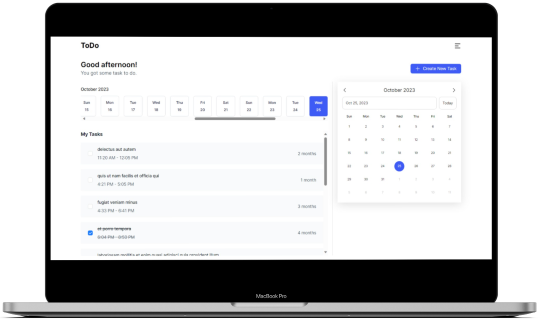
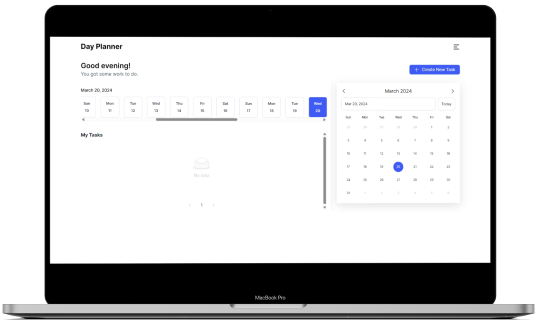
added ajotsome x dinnin

diff --git a/src/app/components/Projects/projects.data.ts b/src/app/components/Projects/projects.data.ts
@@ -18,8 +18,30 @@ export const PROJECTS: ProjectItemProps[] = [
 		description: "The Billsclan storefront is a personalized e-commerce platform, which allows registered users own an online storefront",
 		link: "/billsclan",
 		type: "web",
-		tools: ["React", "Bootstrap 5", "JavaScript", "Redux", "PostgreSQL", ".NET", "C#", "Flutterwave", "Jest"],
+		tools: ["React", "Bootstrap 5", "JavaScript", "Jest", "Redux", "PostgreSQL", "ASP.NET", "C#", "Flutterwave"],
 		liveUrl: "https://billsclan.shop/figocard",
+	},
+	{
+		desktop: "/images/projects/dinnin_desktop.png",
+		mobile: "/images/projects/dinnin_mobile.png",
+		name: "Dinnin",
+		description: "A restaurant management project comprising admin dashboard and customer-facing web app",
+		link: "/dinnin",
+		type: "web",
+		tools: ["React", "TypeScript", "Redux Toolkit", "PusherJs", "Jest", "MySQL", "ASP.NET", "RabbitMQ", "Docker"],
+		liveUrl: "https://dinnin-dashboard.vercel.app",
+		codeUrl: "https://github.com/Okoli-Ryan/Dinnin-dashboard",
+	},
+	{
+		desktop: "/images/projects/todo_desktop.png",
+		mobile: "/images/projects/todo_mobile.png",
+		name: "Day Planner App",
+		description: "Day Planner with calender and time tracker",
+		link: "/day-planner",
+		type: "web",
+		tools: ["React", "HTML", "CSS", "Ant Design", "Tailwind CSS"],
+		codeUrl: "https://github.com/Okoli-Ryan/Day-planner",
+		liveUrl: "https://day-planner-ten.vercel.app/",
 	},
 	{
 		desktop: "/images/projects/panto_desktop.png",
@@ -42,17 +64,6 @@ export const PROJECTS: ProjectItemProps[] = [
 		tools: ["React", "HTML", "CSS", "Tailwind CSS"],
 		codeUrl: "https://github.com/Okoli-Ryan/Music-Player",
 		liveUrl: "https://raadio.vercel.app",
-	},
-	{
-		desktop: "/images/projects/todo_desktop.png",
-		mobile: "/images/projects/todo_mobile.png",
-		name: "Modern Todo App",
-		description: "Todo Application with calender and time tracker",
-		link: "/todo",
-		type: "web",
-		tools: ["React", "HTML", "CSS", "Ant Design", "Tailwind CSS"],
-		codeUrl: "https://github.com/Okoli-Ryan/modern-todo-app",
-		liveUrl: "https://modern-todo-app-ten.vercel.app/",
 	},
 	{
 		desktop: "/images/projects/getlinked_desktop.png",
@@ -99,16 +110,6 @@ export const PROJECTS: ProjectItemProps[] = [
 		liveUrl: "https://space-tourism-omega-three.vercel.app",
 	},
 	{
-		mobile: "/images/projects/wazobia_app.png",
-		name: "Wazobia App",
-		description: "A multilingual dictionary showcasing different topics about Nigeria in textual and audio format in it's core languages",
-		link: "/wazobia",
-		type: "mobile",
-		tools: ["React Native", "Redux", "Native Base", "Firebase", "A/B Testing"],
-		codeUrl: "https://github.com/Okoli-Ryan/Wazobia",
-		liveUrl: "https://drive.google.com/drive/folders/1JcOIQJfw_ZNW8NgfxnGreNZGm4z_-LBl?usp=share_link",
-	},
-	{
 		mobile: "/images/projects/nigerite_app.png",
 		name: "Nigerite Emenite App",
 		description:
@@ -117,6 +118,25 @@ export const PROJECTS: ProjectItemProps[] = [
 		type: "mobile",
 		tools: ["React Native", "Redux", "Native Base", "Firebase", "A/B Testing"],
 		liveUrl: "https://play.google.com/store/apps/details?id=com.etex.nigeriteetex&hl=en&gl=US&pli=1",
+	},
+	{
+		mobile: "/images/projects/ajotsome_app.png",
+		name: "Ajotsome App",
+		description: "The innovative platform that digitizes and enhances the traditional saving practice of Ajo",
+		link: "/ajotsome",
+		type: "mobile",
+		tools: ["React Native", "Redux", "Native Base", "A/B Testing"],
+		liveUrl: "https://play.google.com/store/apps/details?id=com.ajot",
+	},
+	{
+		mobile: "/images/projects/wazobia_app.png",
+		name: "Wazobia App",
+		description: "A multilingual dictionary showcasing different topics about Nigeria in textual and audio format in it's core languages",
+		link: "/wazobia",
+		type: "mobile",
+		tools: ["React Native", "Redux", "Native Base", "Firebase", "A/B Testing"],
+		codeUrl: "https://github.com/Okoli-Ryan/Wazobia",
+		liveUrl: "https://drive.google.com/drive/folders/1JcOIQJfw_ZNW8NgfxnGreNZGm4z_-LBl?usp=share_link",
 	},
 	{
 		mobile: "/images/projects/instagram_app.png",

diff --git a/src/components/Header.tsx b/src/components/Header.tsx
@@ -20,14 +20,15 @@ const NAV_ROUTES = [
 		name: "Projects",
 		href: "#projects",
 	},
-	{
-		name: "Contact",
-		href: "#contact",
-	},
+	// {
+	// 	name: "Contact",
+	// 	href: "#contact",
+	// },
 	{
 		name: "Resume",
 		href: RESUME_LINK,
 		isButton: true,
+		newTab: true,
 	},
 ];
 
@@ -56,6 +57,7 @@ export default function Header() {
 							{NAV_ROUTES.map((route) => (
 								<li key={route.name}>
 									<LinkButton
+										newTab={route.newTab}
 										variant={route.isButton ? "outline" : "ghost"}
 										href={route.href}
 										className="no-underline hover:text-purple-500 transition-colors">
@@ -74,6 +76,7 @@ export default function Header() {
 									<LinkButton
 										variant={route.isButton ? "outline" : "ghost"}
 										href={route.href}
+										newTab={route.newTab}
 										className="no-underline font-bold block text-right"
 										onClick={toggleDrawer}>
 										{route.name}

diff --git a/src/constants.ts b/src/constants.ts
@@ -1,4 +1,4 @@
-export const RESUME_LINK = "https://flowcv.com/resume/s55es152qr";
+export const RESUME_LINK = "https://drive.google.com/file/d/19o0FI-s73sh9ldFb9lOuZ3kBOMRRp04a/view?usp=sharing";
 
 export const SOCIALS = [
 	{ name: "email", path: "/icons/email.svg", link: "mailto:okoliryan50@gmail.com" },

diff --git a/src/app/page.tsx b/src/app/page.tsx
@@ -9,7 +9,7 @@ export default function Home() {
 			<Hero />
 			<AboutMe />
 			<Projects />
-			<Contact />
+			{/* <Contact /> */}
 		</div>
 	);
 }
